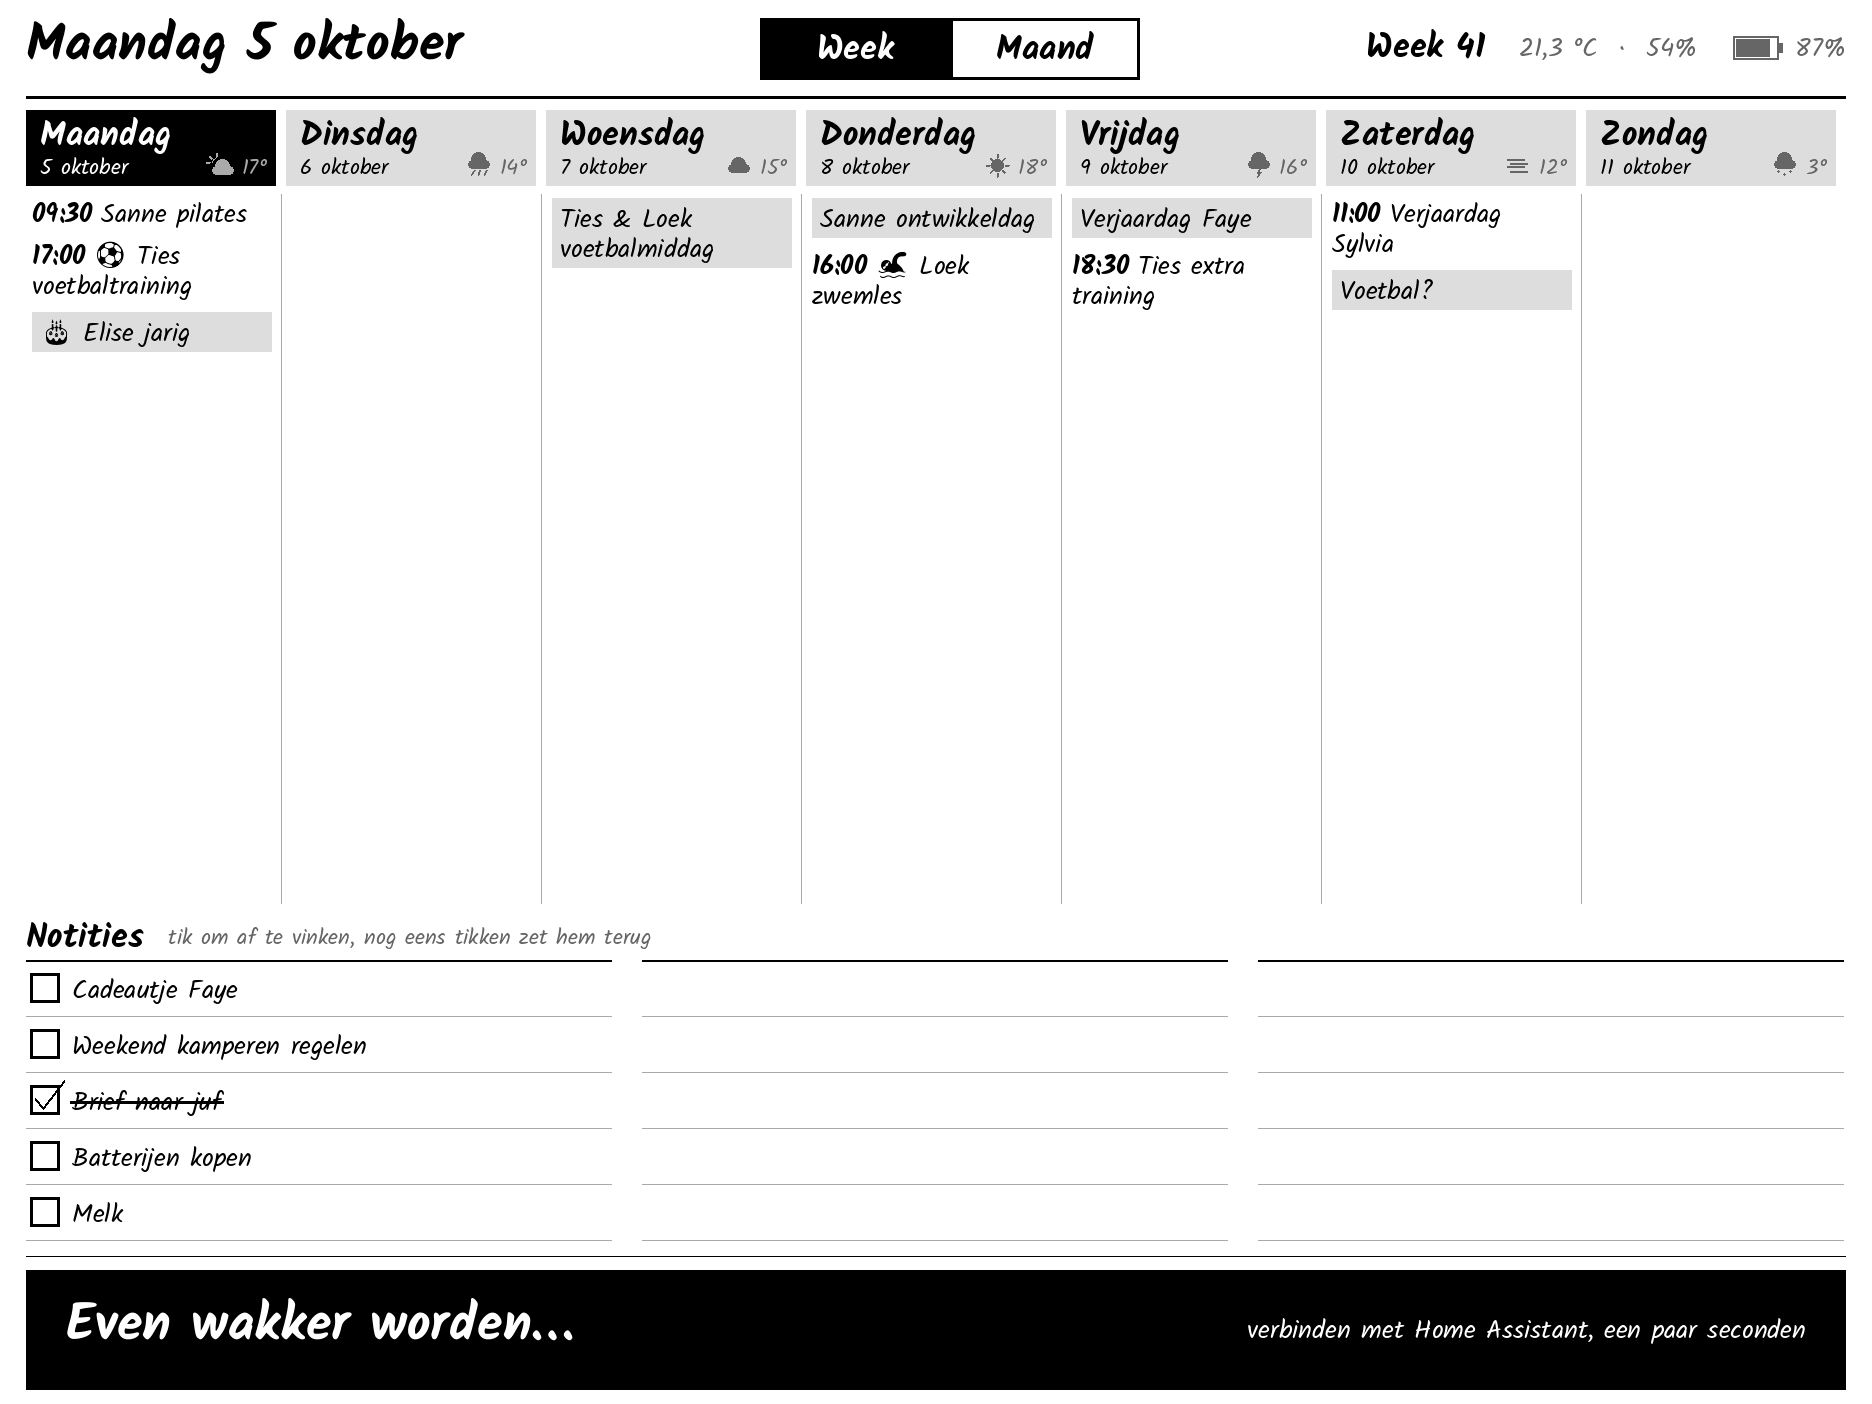
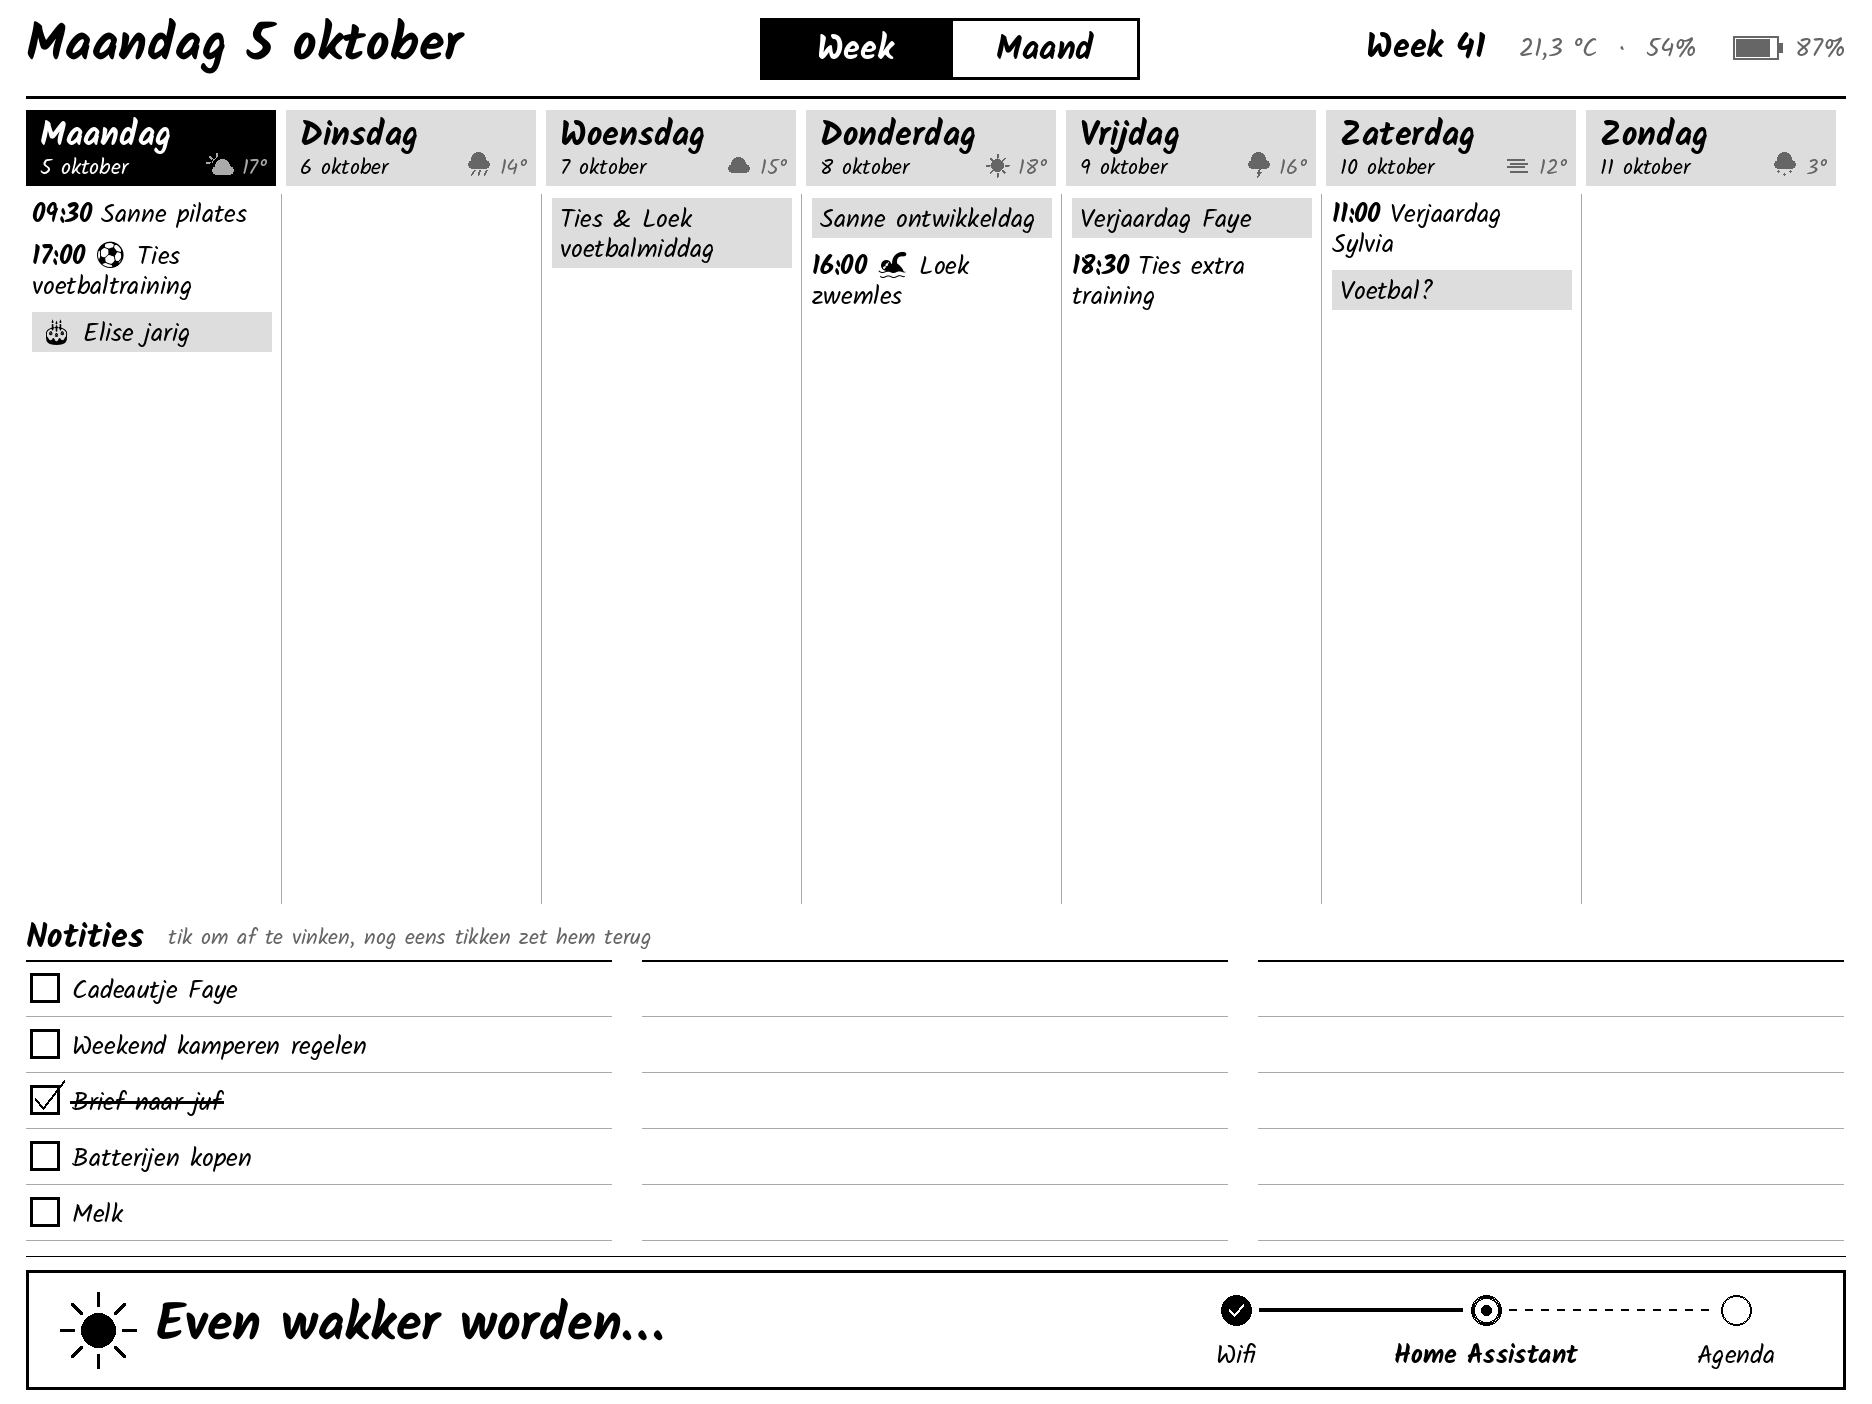
Nicer, faster wake-up: progress steps, fast_connect, no blind 2s wait
- Wake bar in the Slaapstand style (white, sun icon) with steps
  wifi -> Home Assistant -> agenda that tick off as they happen.
- wifi fast_connect: reuse saved channel/BSSID instead of a full scan.
- Ask HA for the agenda as soon as it has subscribed (instead of a
  fixed 2s delay), and ask once more if nothing arrives within 8s.
- Log how long after boot the agenda arrived.

Changed region(s): [[0.0, 0.8882, 0.9915, 1.0]]

diff --git a/esphome/components/ink/ink_kalender.h b/esphome/components/ink/ink_kalender.h
@@ -522,6 +522,7 @@ struct Staat {
   float vochtigheid{NAN};
   float accu{NAN};  // procent
   Slaap slaap{WAKKER};
+  uint8_t wek_stap{0};  // tijdens WORDT_WAKKER: 0 wifi, 1 Home Assistant, 2 agenda
 };
 
 // Onder dit percentage waarschuwt het scherm om op te laden.
@@ -1118,17 +1119,58 @@ inline void teken_microfoon(Display &it, int mx, int my, Color voor, Color achte
   vlak(it, mx - 14, my + 36, 28, 4, voor);
 }
 
+// Zonnetje voor "wakker worden"
+inline void teken_zon(Display &it, int mx, int my, Color kleur) {
+  it.filled_circle(mx, my, 17, kleur);
+  // 8 stralen; richting * 7 (schuin: 5 en 5, ongeveer even lang)
+  static const int8_t richting[8][2] = {{7, 0}, {-7, 0}, {0, 7}, {0, -7}, {5, 5}, {-5, 5}, {5, -5}, {-5, -5}};
+  for (const auto &r : richting)
+    for (int dx = -1; dx <= 1; dx++)
+      for (int dy = -1; dy <= 1; dy++)
+        it.line(mx + r[0] * 25 / 7 + dx, my + r[1] * 25 / 7 + dy, mx + r[0] * 37 / 7 + dx, my + r[1] * 37 / 7 + dy, kleur);
+}
+
+// Voortgang tijdens het wakker worden: wifi -> Home Assistant -> agenda.
+inline void teken_wekstappen(Display &it, const Fonts &f, int stap, Color v, Color a) {
+  static const char *const namen[3] = {"Wifi", "Home Assistant", "Agenda"};
+  constexpr int AFSTAND = 250, R = 15;
+  const int y = KNOP_Y + 40;
+  const int x0 = B - MARGE - 110 - 2 * AFSTAND;
+  for (int i = 0; i < 2; i++) {  // verbindingslijnen
+    const int van = x0 + i * AFSTAND + R + 8, tot = x0 + (i + 1) * AFSTAND - R - 8;
+    if (i < stap)
+      vlak(it, van, y - 2, tot - van, 4, v);
+    else
+      for (int x = van; x < tot; x += 16)
+        vlak(it, x, y - 1, std::min(8, tot - x), 2, v);
+  }
+  for (int i = 0; i < 3; i++) {
+    const int x = x0 + i * AFSTAND;
+    if (i < stap) {  // klaar: dicht bolletje met vinkje
+      it.filled_circle(x, y, R, v);
+      for (int d = 0; d < 3; d++) {
+        it.line(x - 7, y + d - 1, x - 2, y + 5 + d - 1, a);
+        it.line(x - 2, y + 5 + d - 1, x + 7, y - 5 + d - 1, a);
+      }
+    } else {  // bezig: dikke ring met stip; nog niet: dunne ring
+      for (int d = 0; d < (i == stap ? 4 : 2); d++)
+        it.circle(x, y, R - d, v);
+      if (i == stap)
+        it.filled_circle(x, y, 5, v);
+    }
+    tekst(it, x, y + R + 10, i == stap ? f.vet : f.normaal, v, a, TextAlign::TOP_CENTER, namen[i]);
+  }
+}
+
 inline void teken_slaapbalk(Display &it, const Staat &s, const Fonts &f) {
-  const bool wordt_wakker = s.slaap == WORDT_WAKKER;
   // Alleen zwart/wit: deze balk wordt met de snelle DU-modus getekend.
-  const Color a = wordt_wakker ? ZWART : WIT;
-  const Color v = wordt_wakker ? WIT : ZWART;
+  const Color a = WIT, v = ZWART;
   vlak(it, MARGE, KNOP_Y, BREED, KNOP_H, a);
   kader(it, MARGE, KNOP_Y, BREED, KNOP_H, 3, ZWART);
-  if (wordt_wakker) {
-    tekst(it, MARGE + 40, KNOP_Y + 14, f.groot, v, a, TextAlign::TOP_LEFT, "Even wakker worden…");
-    tekst(it, B - MARGE - 40, KNOP_Y + 40, f.normaal, v, a, TextAlign::TOP_RIGHT,
-          "verbinden met Home Assistant, een paar seconden");
+  if (s.slaap == WORDT_WAKKER) {
+    teken_zon(it, MARGE + 72, KNOP_Y + KNOP_H / 2, v);
+    tekst(it, MARGE + 130, KNOP_Y + 14, f.groot, v, a, TextAlign::TOP_LEFT, "Even wakker worden…");
+    teken_wekstappen(it, f, s.wek_stap, v, a);
   } else {
     // Maantje
     it.filled_circle(MARGE + 70, KNOP_Y + KNOP_H / 2, 30, v);

diff --git a/tools/preview/preview.cpp b/tools/preview/preview.cpp
@@ -84,6 +84,7 @@ int main(int argc, char **argv) {
     s.slaap = ink::SLAAPT;
   } else if (!std::strcmp(scenario, "wakker-worden")) {
     s.slaap = ink::WORDT_WAKKER;
+    s.wek_stap = 1;
   } else if (!std::strcmp(scenario, "accu-laag")) {
     s.accu = 12.0f;
     s.verbonden = false;

diff --git a/README.md b/README.md
@@ -260,7 +260,7 @@ Staat standaard **aan** (schakelaar **Spaarstand** bij het apparaat in HA).
 | Wat | Wat je ziet |
 |---|---|
 | Een minuut niets gedaan | Onderin verschijnt **"Slaapstand – tik twee keer op het scherm om te wekken"**; de agenda blijft gewoon zichtbaar (e-paper heeft geen stroom nodig om een beeld te houden). |
-| Dubbeltik op het scherm of druk op een knop | Onderin **"Even wakker worden…"**; na een paar seconden ververst het scherm en werkt alles. De dubbeltik waarmee je wekt telt niet als tik op een knop. Een enkele tik wekt hem niet. |
+| Dubbeltik op het scherm of druk op een knop | Onderin **"Even wakker worden…"** met de stappen wifi → Home Assistant → agenda; na een paar seconden ververst het scherm en werkt alles. De dubbeltik waarmee je wekt telt niet als tik op een knop. Een enkele tik wekt hem niet. |
 | Groene knop terwijl hij slaapt | Wordt wakker en begint daarna meteen met luisteren. |
 | Elke 2 uur | Wordt stil wakker, haalt de agenda op en ververst **alleen als er iets veranderd is**. Daarna weer slapen. Wek je hem zelf, dan haalt hij de agenda meteen op. |
 | 's Nachts (23:00–6:00) | Slaapt door tot 6:00. |
